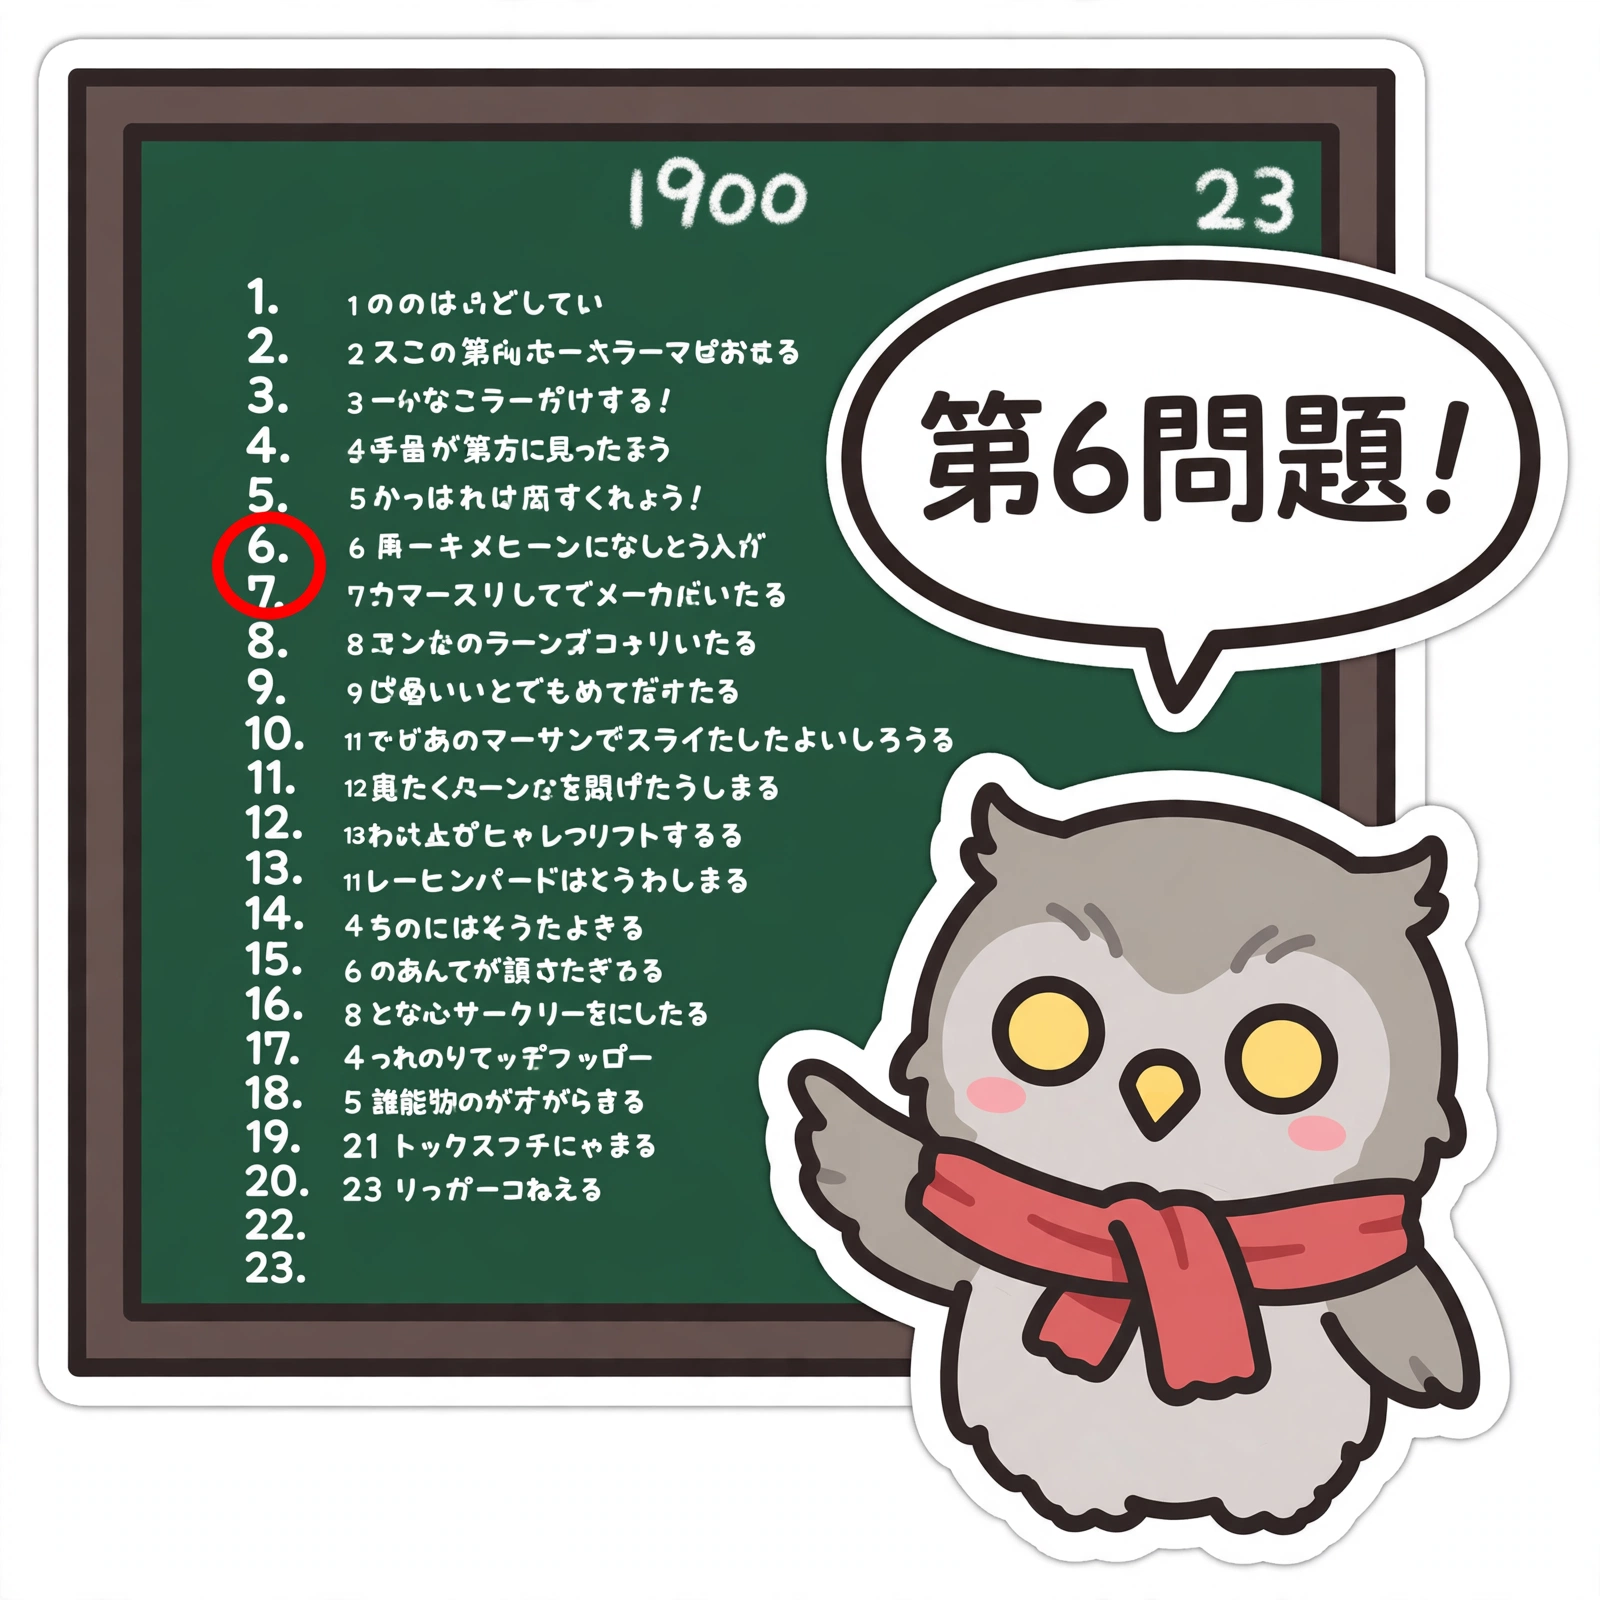
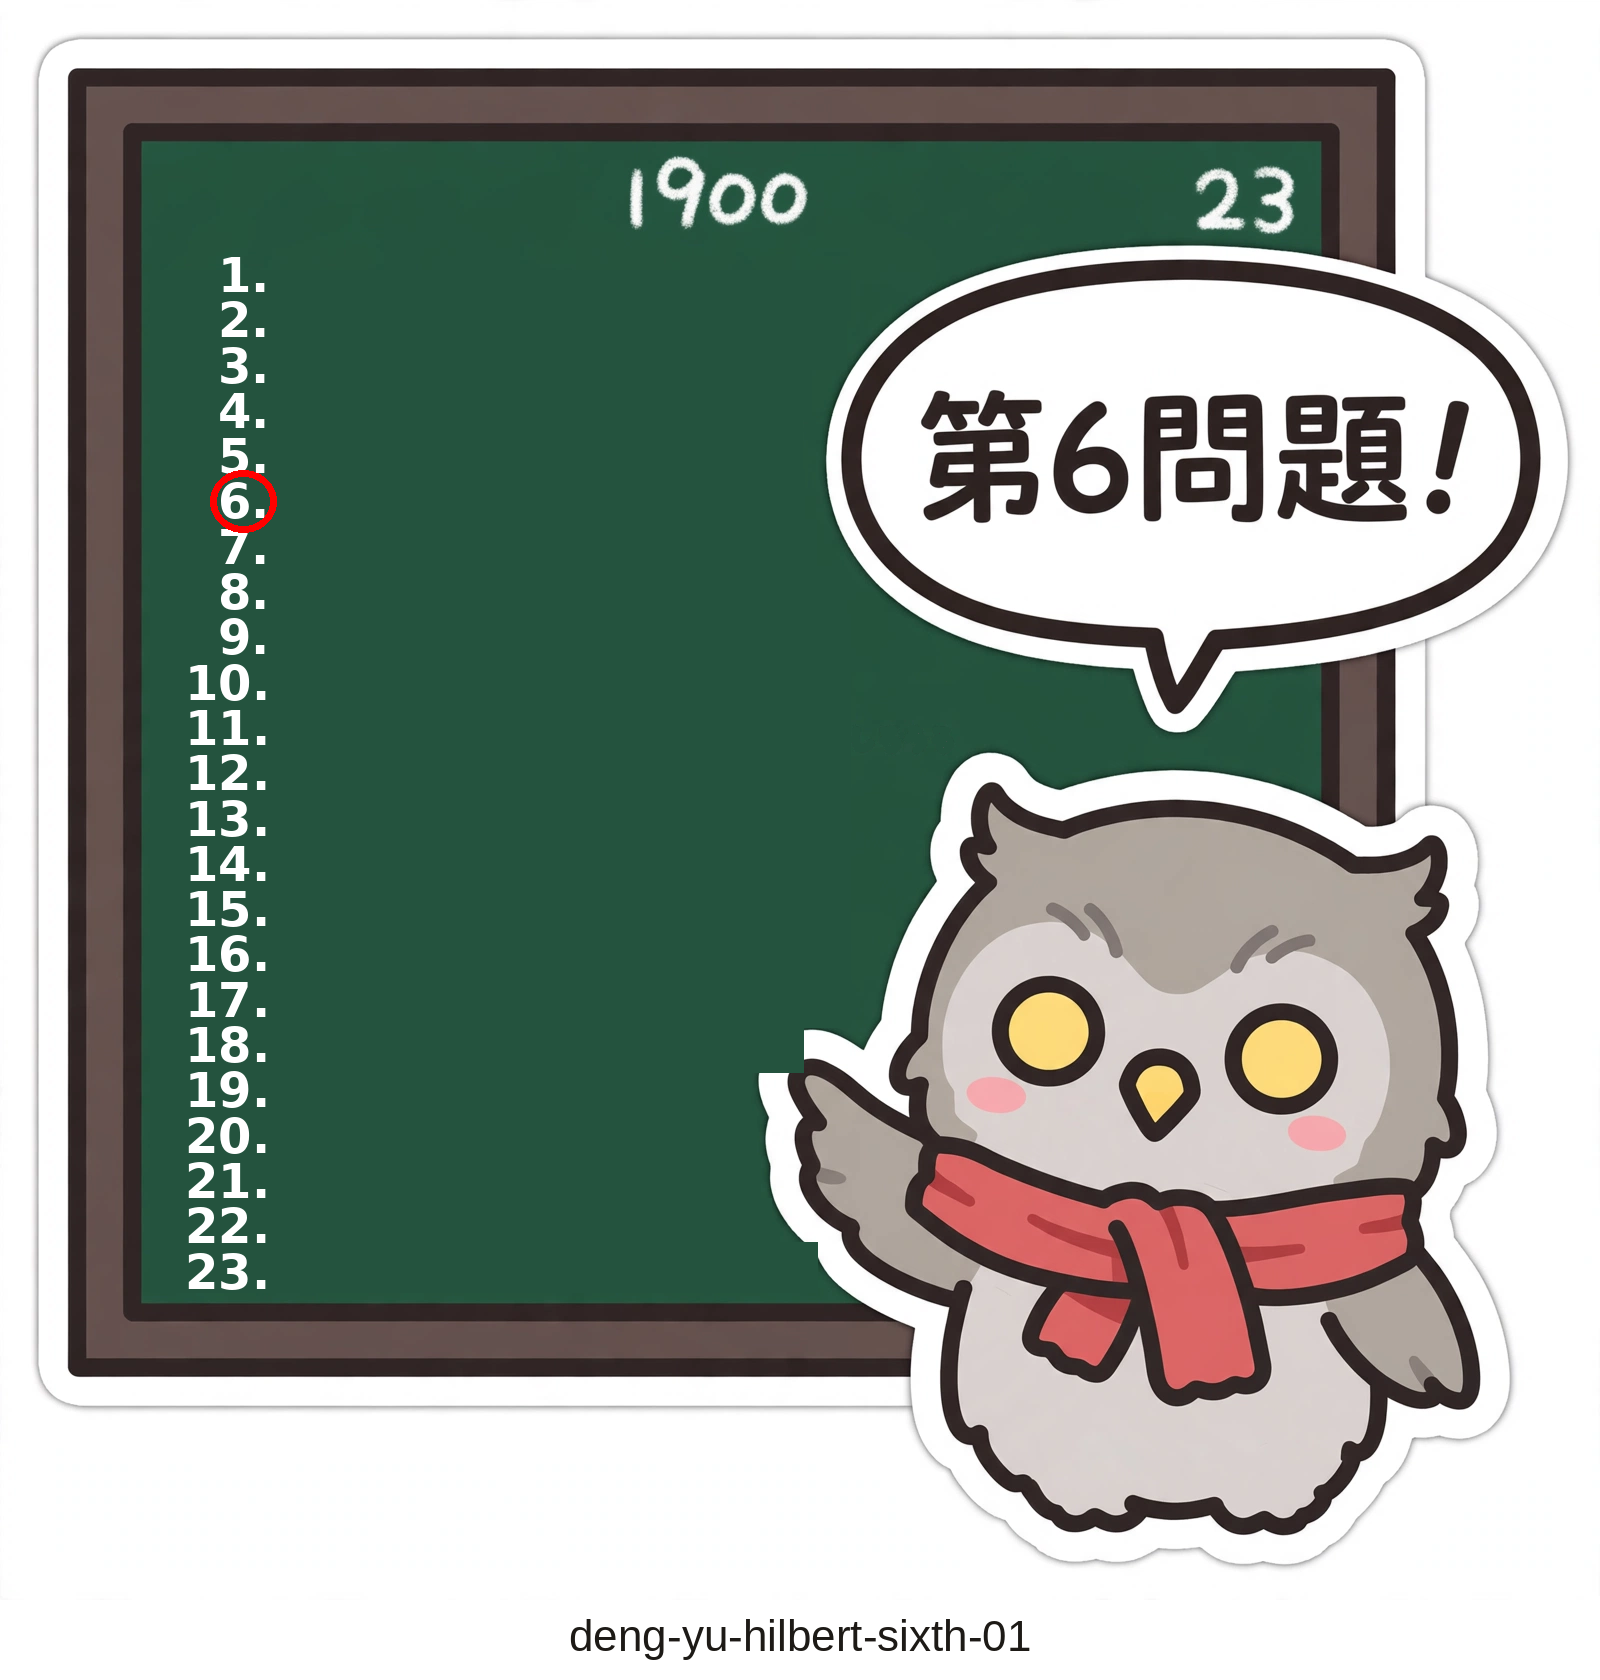
Publish set 3: Deng Yu Hilbert sixth problem (QA 8.6/10, 01 board fixed, tagged, shell v9/data v8/SW v10)

Changed region(s): [[0.0, 0.0312, 1.0, 1.0]]

diff --git a/web_app/share/deng-yu-hilbert-sixth/index.html b/web_app/share/deng-yu-hilbert-sixth/index.html
@@ -1,0 +1,32 @@
+<!DOCTYPE html>
+<html lang="zh-CN">
+<head>
+<meta charset="utf-8">
+<meta name="viewport" content="width=device-width, initial-scale=1">
+<title>《为牛顿力学找回时间之箭》：邓煜与希尔伯特第六问题的百年闭环 — Sticker Showcase</title>
+<meta name="description" content="微观定律没有方向，宏观世界却有。最后一张：安静地闭环了。">
+<meta property="og:type" content="article">
+<meta property="og:site_name" content="Sticker Showcase">
+<meta property="og:title" content="《为牛顿力学找回时间之箭》：邓煜与希尔伯特第六问题的百年闭环">
+<meta property="og:description" content="微观定律没有方向，宏观世界却有。最后一张：安静地闭环了。">
+<meta property="og:image" content="https://sutekka-generator.vercel.app/og/deng-yu-hilbert-sixth.jpg">
+<meta property="og:image:width" content="1200">
+<meta property="og:image:height" content="604">
+<meta property="og:url" content="https://sutekka-generator.vercel.app/share/deng-yu-hilbert-sixth/">
+<meta name="twitter:card" content="summary_large_image">
+<meta name="twitter:title" content="《为牛顿力学找回时间之箭》：邓煜与希尔伯特第六问题的百年闭环">
+<meta name="twitter:description" content="微观定律没有方向，宏观世界却有。最后一张：安静地闭环了。">
+<meta name="twitter:image" content="https://sutekka-generator.vercel.app/og/deng-yu-hilbert-sixth.jpg">
+<link rel="canonical" href="https://sutekka-generator.vercel.app/share/deng-yu-hilbert-sixth/">
+<style>body{font-family:system-ui,sans-serif;background:#faf7f0;color:#1d1a16;margin:0;padding:48px 20px;text-align:center}h1{font-size:22px}p{color:#555;max-width:560px;margin:12px auto}a{color:#b3402a}</style>
+<script>location.replace('/#/set/deng-yu-hilbert-sixth');</script>
+</head>
+<body>
+<main>
+<h1>《为牛顿力学找回时间之箭》：邓煜与希尔伯特第六问题的百年闭环</h1>
+<p>微观定律没有方向，宏观世界却有。最后一张：安静地闭环了。</p>
+<p>Opening the sticker set…</p>
+<p><a href="/#/set/deng-yu-hilbert-sixth">View 邓煜与希尔伯特第六问题 on Sticker Showcase →</a></p>
+</main>
+</body>
+</html>

diff --git a/web_app/index.html b/web_app/index.html
@@ -10,7 +10,7 @@
 <meta property="og:title" content="Sticker Showcase — 贴纸展 · 时事专栏变成的贴纸">
 <meta property="og:description" content="Sticker sets made from current-affairs columns. One sticker, one point — researched, checked, then drawn.">
 <meta property="og:url" content="https://sutekka-generator.vercel.app/">
-<link rel="stylesheet" href="styles.css?v=7">
+<link rel="stylesheet" href="styles.css?v=8">
 </head>
 <body>
 <header class="top">
@@ -120,7 +120,7 @@
   <p>Sticker Showcase · built from <a href="https://github.com/fimtestxyz/sutekka-generator">fimtestxyz/sutekka-generator</a> · new sticker sets appear automatically after each push. · <a href="#/about">Send feedback</a></p>
 </footer>
 
-<script src="app.js?v=8" defer></script>
+<script src="app.js?v=9" defer></script>
 
 <div id="columnModal" class="modal" hidden role="dialog" aria-modal="true" aria-labelledby="columnModalTitle">
   <div class="modal-backdrop" id="columnModalBackdrop"></div>

diff --git a/web_app/app.js b/web_app/app.js
@@ -10,7 +10,7 @@
 (function () {
   'use strict';
 
-  var LS_KEY = 'sticker-showcase-index-v7';
+  var LS_KEY = 'sticker-showcase-index-v8';
   var LS_TTL_MS = 60 * 60 * 1000; // revalidate after 1 hour
   // DATA_V: bump whenever the shape of data/index.json changes
   // (e.g. a new field per sticker). The fetch URL carries it, so no
@@ -18,7 +18,7 @@
   // above (its key carries the same version) — can serve stale data
   // after a deploy. The ?v= on app.js/styles.css is the same idea
   // for the shell; all three numbers move together.
-  var DATA_V = 7;
+  var DATA_V = 8;
   var PAGE_SIZE = 12;
 
   var state = {

diff --git a/web_app/sw.js b/web_app/sw.js
@@ -20,8 +20,8 @@
  *
  * /api/* is never cached: likes and comments are live data.
  */
-var CACHE = 'sticker-showcase-v9';
-var CORE = ['/', '/index.html', '/app.js?v=8', '/styles.css?v=7', '/data/index.json?v=7', '/data/series.json', '/data/config.json'];
+var CACHE = 'sticker-showcase-v10';
+var CORE = ['/', '/index.html', '/app.js?v=9', '/styles.css?v=8', '/data/index.json?v=8', '/data/series.json', '/data/config.json'];
 var IMAGE_MAX_AGE_MS = 7 * 24 * 60 * 60 * 1000;
 
 self.addEventListener('install', function (event) {

diff --git a/stickers/deng-yu-hilbert-sixth/qa.md b/stickers/deng-yu-hilbert-sixth/qa.md
@@ -18,6 +18,16 @@
 
 平均：57/7 ≈ **8.1/10**。
 
+## 修复记录（2026-11-25，总编辑选“先修 01 再发”）
+
+01 的黑板用确定性像素重建修好（与套装 2 修 02 日历同一手法，未用
+模型重画）：编号改回 1–23（21 号补回）、红圈只圈 6 号、右侧伪日
+文填充字用黑板底色盖掉；其余像素不动（diff：563,234 个变化像素
+全部在编号区内）。我亲自看过修好的 01 单张确认。
+
+重评：事实准确 7→9，可读性 8→9，其余不变。新平均 60/7 ≈
+**8.6/10**。状态改为 published。
+
 ## 日文核对（逐字）
 
 01 第6問題！ / 02 ビリヤード！ / 03 逆再生でも同じ？ / 04 水は戻らない。 /
